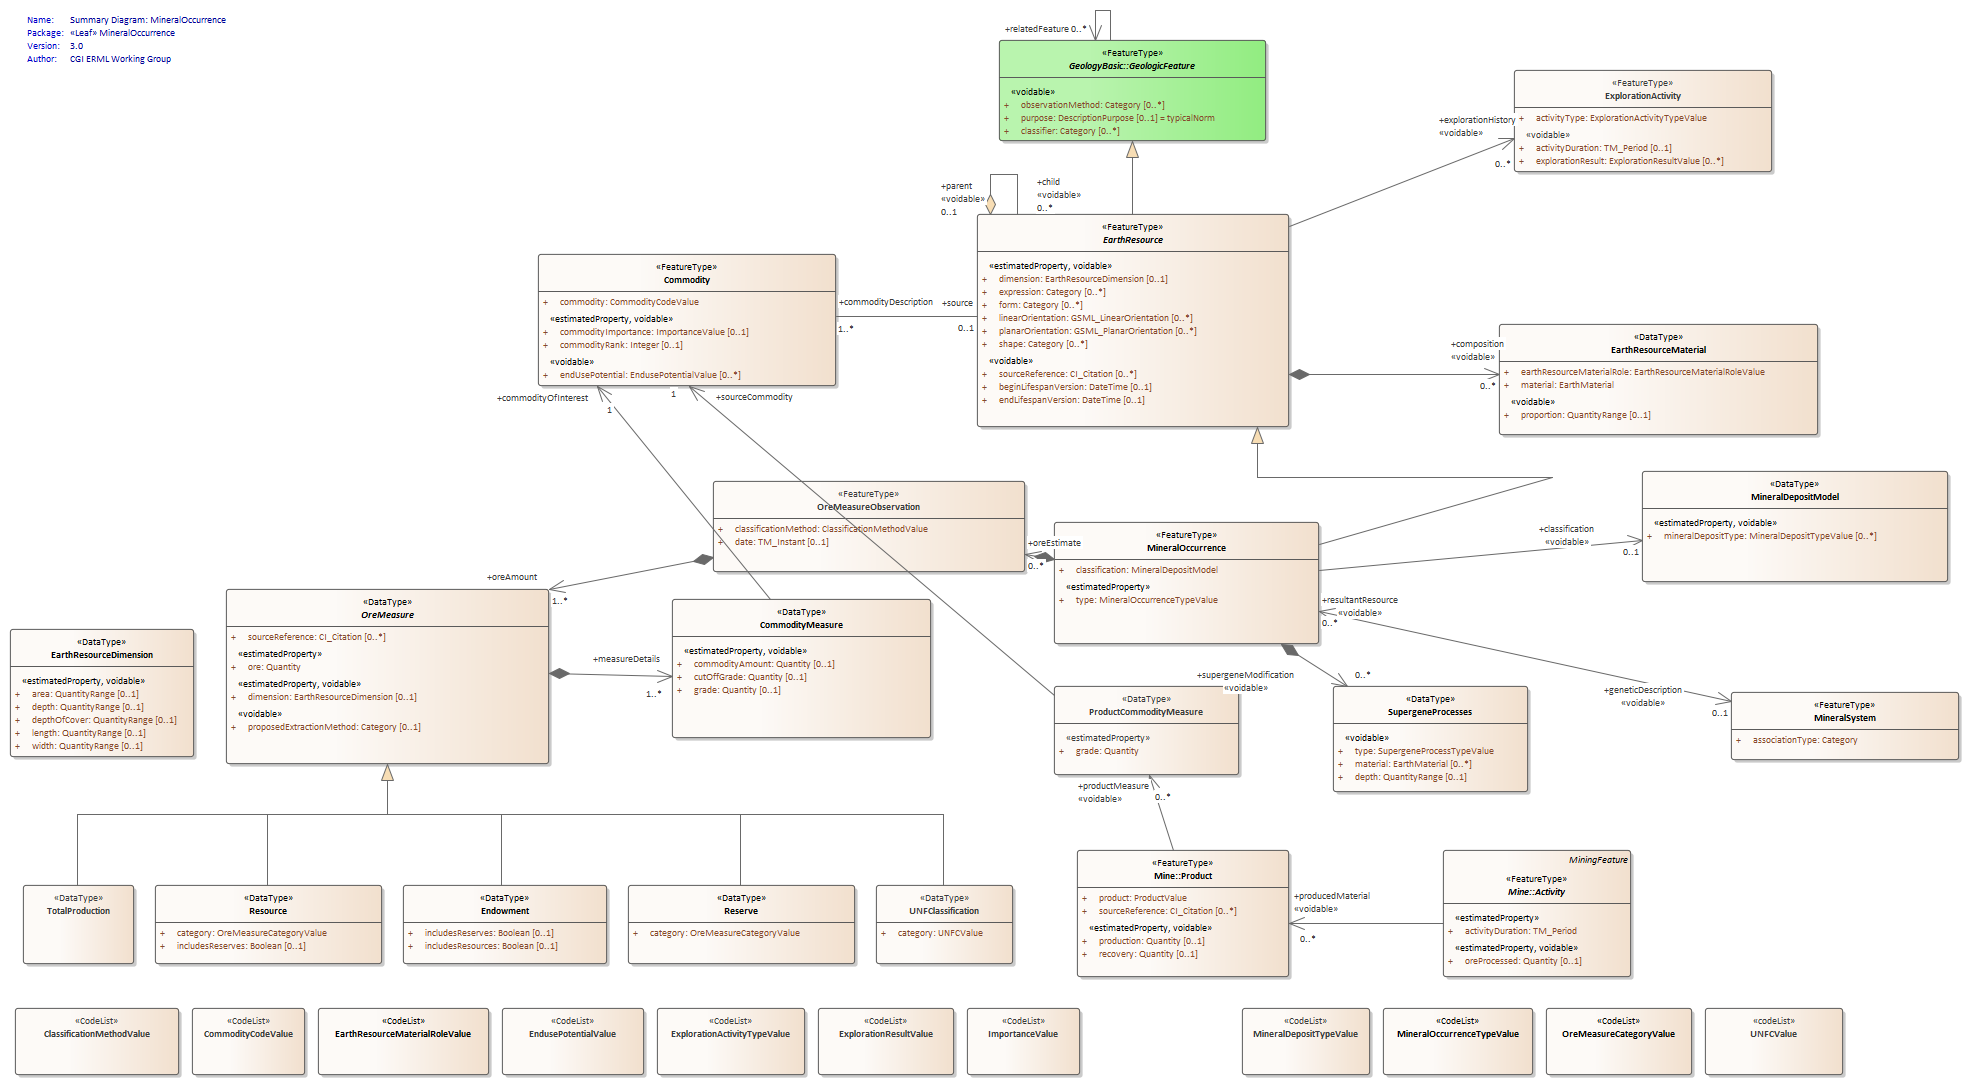
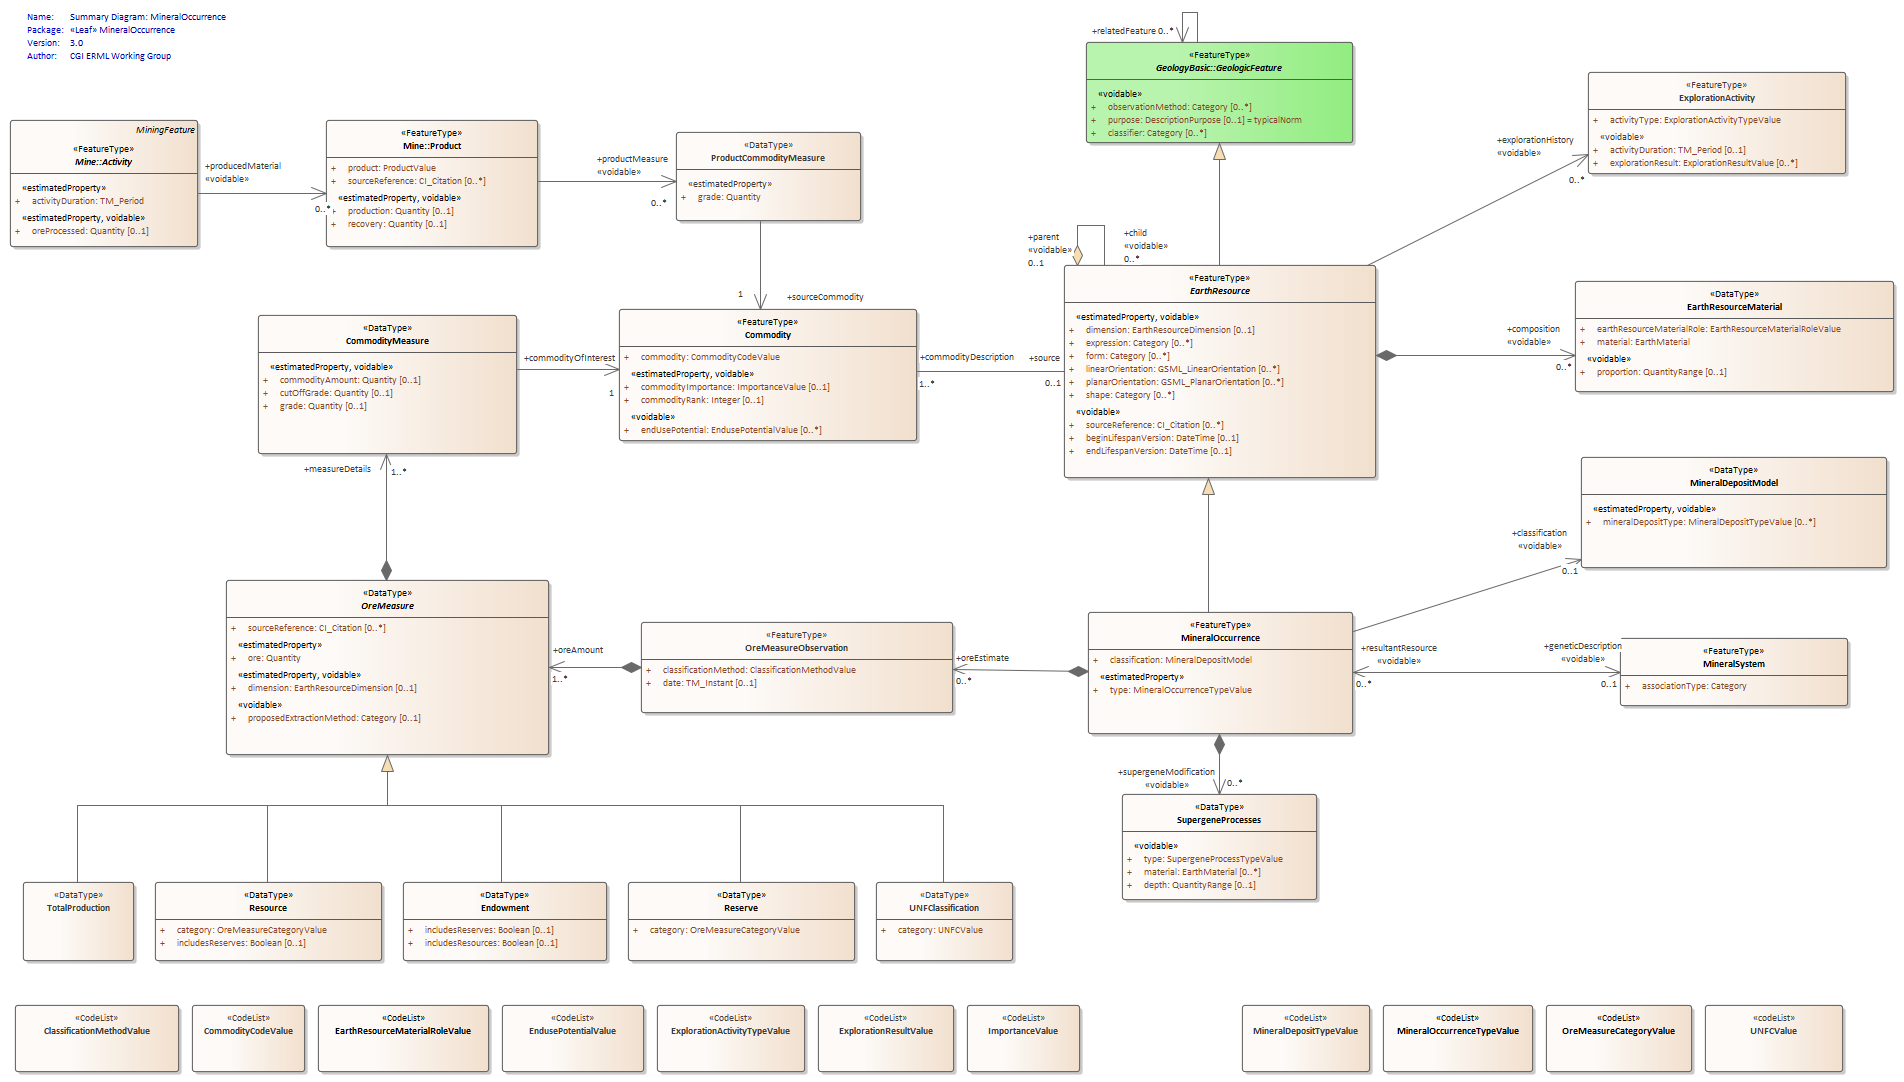
Fix up diagram

diff --git a/EARoot/EA2/EA86.htm b/EARoot/EA2/EA86.htm
@@ -36,37 +36,36 @@ function nameClassifier(name, separator)
 <img src="EA87.png" usemap="#EA87" border="0" />
 
 <MAP NAME="EA87">
-<area shape="rect" coords="713,481,1025,572" href="EA96.htm" target="_self">
-<area shape="rect" coords="23,885,134,964" href="EA107.htm" target="_self">
-<area shape="rect" coords="1054,686,1239,775" href="EA103.htm" target="_self">
-<area shape="rect" coords="1333,686,1528,792" href="EA106.htm" target="_self">
-<area shape="rect" coords="1499,324,1818,435" href="EA99.htm" target="_self">
-<area shape="rect" coords="1443,850,1631,977" href="../EA1/EA29.htm" target="_self">
-<area shape="rect" coords="1077,850,1289,977" href="../EA1/EA37.htm" target="_self">
-<area shape="rect" coords="538,254,836,386" href="EA91.htm" target="_self">
-<area shape="rect" coords="1054,522,1319,644" href="EA94.htm" target="_self">
-<area shape="rect" coords="1383,1008,1533,1075" href="EA117.htm" target="_self">
-<area shape="rect" coords="967,1008,1080,1075" href="EA115.htm" target="_self">
-<area shape="rect" coords="318,1008,489,1075" href="EA111.htm" target="_self">
-<area shape="rect" coords="628,885,855,964" href="EA104.htm" target="_self">
-<area shape="rect" coords="403,885,607,964" href="EA100.htm" target="_self">
-<area shape="rect" coords="155,885,382,964" href="EA105.htm" target="_self">
-<area shape="rect" coords="672,599,931,738" href="EA97.htm" target="_self">
-<area shape="rect" coords="226,589,549,764" href="EA102.htm" target="_self">
-<area shape="rect" coords="10,629,194,757" href="EA98.htm" target="_self">
-<area shape="rect" coords="1642,471,1948,582" href="EA101.htm" target="_self">
-<area shape="rect" coords="1731,692,1959,760" href="EA95.htm" target="_self">
-<area shape="rect" coords="977,214,1289,427" href="EA92.htm" target="_self">
-<area shape="rect" coords="876,885,1013,964" href="EA108.htm" target="_self">
-<area shape="rect" coords="1705,1008,1843,1075" href="EA120.htm" target="_self">
-<area shape="rect" coords="1546,1008,1692,1075" href="EA118.htm" target="_self">
-<area shape="rect" coords="1242,1008,1370,1075" href="EA116.htm" target="_self">
-<area shape="rect" coords="502,1008,644,1075" href="EA114.htm" target="_self">
-<area shape="rect" coords="15,1008,179,1075" href="EA109.htm" target="_self">
-<area shape="rect" coords="818,1008,954,1075" href="EA113.htm" target="_self">
-<area shape="rect" coords="657,1008,805,1075" href="EA112.htm" target="_self">
-<area shape="rect" coords="1514,70,1772,172" href="EA93.htm" target="_self">
-<area shape="rect" coords="192,1008,305,1075" href="EA110.htm" target="_self">
+<area shape="rect" coords="641,622,953,713" href="EA96.htm" target="_self">
+<area shape="rect" coords="23,882,134,961" href="EA107.htm" target="_self">
+<area shape="rect" coords="676,132,861,221" href="EA103.htm" target="_self">
+<area shape="rect" coords="1122,794,1317,900" href="EA106.htm" target="_self">
+<area shape="rect" coords="1575,281,1894,392" href="EA99.htm" target="_self">
+<area shape="rect" coords="10,120,198,247" href="../EA1/EA29.htm" target="_self">
+<area shape="rect" coords="326,120,538,247" href="../EA1/EA37.htm" target="_self">
+<area shape="rect" coords="619,309,917,441" href="EA91.htm" target="_self">
+<area shape="rect" coords="1088,612,1353,734" href="EA94.htm" target="_self">
+<area shape="rect" coords="1383,1005,1533,1072" href="EA117.htm" target="_self">
+<area shape="rect" coords="967,1005,1080,1072" href="EA115.htm" target="_self">
+<area shape="rect" coords="318,1005,489,1072" href="EA111.htm" target="_self">
+<area shape="rect" coords="628,882,855,961" href="EA104.htm" target="_self">
+<area shape="rect" coords="403,882,607,961" href="EA100.htm" target="_self">
+<area shape="rect" coords="155,882,382,961" href="EA105.htm" target="_self">
+<area shape="rect" coords="258,315,517,454" href="EA97.htm" target="_self">
+<area shape="rect" coords="226,580,549,755" href="EA102.htm" target="_self">
+<area shape="rect" coords="1581,457,1887,568" href="EA101.htm" target="_self">
+<area shape="rect" coords="1620,638,1848,706" href="EA95.htm" target="_self">
+<area shape="rect" coords="1064,265,1376,478" href="EA92.htm" target="_self">
+<area shape="rect" coords="876,882,1013,961" href="EA108.htm" target="_self">
+<area shape="rect" coords="1705,1005,1843,1072" href="EA120.htm" target="_self">
+<area shape="rect" coords="1546,1005,1692,1072" href="EA118.htm" target="_self">
+<area shape="rect" coords="1242,1005,1370,1072" href="EA116.htm" target="_self">
+<area shape="rect" coords="502,1005,644,1072" href="EA114.htm" target="_self">
+<area shape="rect" coords="15,1005,179,1072" href="EA109.htm" target="_self">
+<area shape="rect" coords="818,1005,954,1072" href="EA113.htm" target="_self">
+<area shape="rect" coords="657,1005,805,1072" href="EA112.htm" target="_self">
+<area shape="rect" coords="1588,72,1846,174" href="EA93.htm" target="_self">
+<area shape="rect" coords="192,1005,305,1072" href="EA110.htm" target="_self">
 </MAP>
 
 	<div class="ObjectTitle">Summary Diagram: MineralOccurrence : Class diagram</div>
@@ -77,7 +76,7 @@ function nameClassifier(name, separator)
 		</tr>
 		<tr>
 			<td width="15%" class="ObjectDetailsTopic">Modified:</td>
-			<td width="85%" class="ObjectDetailsValue">8/11/2022 10:59:42 PM</td>
+			<td width="85%" class="ObjectDetailsValue">20/11/2024 3:56:18 PM</td>
 		</tr>
 		<tr style="padding-top: 10px;">
 			<td width="15%" class="ObjectDetailsTopic"><img src="../../images/plus03.gif" align="absmiddle" id="proj" onclick="parent.toggleData(this.id)" />Project:</td>

diff --git a/EARoot/EA2/EA94.htm b/EARoot/EA2/EA94.htm
@@ -91,7 +91,7 @@ function nameClassifier(name, separator)
 		</tr>
 		<tr id="adv01" style="display: none;">
 			<td class="ObjectDetailsTopic" style="padding-left: 18px;">Appears In:</td>
-			<td class="ObjectDetailsValue"><a href="../EA1/EA12.htm">Context Diagram: Mining Activity</a>, <a href="EA86.htm">Summary Diagram: MineralOccurrence</a>, <a href="EA60.htm">Context Diagram: EarthResource</a>, <a href="EA68.htm">Context Diagram: MineralDepositModel</a>, <a href="EA70.htm">Context Diagram: MineralOccurrence</a>, <a href="EA72.htm">Context Diagram: MineralSystem</a>, <a href="EA74.htm">Context Diagram: OreMeasure</a>, <a href="EA80.htm">Context Diagram: SupergeneProcesses</a>, <a href="EA88.htm">Summary Diagram: Mineral Occurrence to Mine</a></td>
+			<td class="ObjectDetailsValue"><a href="../EA1/EA12.htm">Context Diagram: Mining Activity</a>, <a href="EA86.htm">Summary Diagram: MineralOccurrence</a>, <a href="EA60.htm">Context Diagram: EarthResource</a>, <a href="EA68.htm">Context Diagram: MineralDepositModel</a>, <a href="EA70.htm">Context Diagram: MineralOccurrence</a>, <a href="EA72.htm">Context Diagram: MineralSystem</a>, <a href="EA74.htm">Context Diagram: OreMeasureObservation</a>, <a href="EA80.htm">Context Diagram: SupergeneProcesses</a>, <a href="EA88.htm">Summary Diagram: Mineral Occurrence to Mine</a></td>
 		</tr>
 	</table>
 	<div class="ObjectDetailsNotes">&lt;font color=&quot;#400040&quot;&gt;-- Definition --&lt;/font&gt;&lt;br/&gt;&lt;font color=&quot;#400040&quot;&gt;A mineral accumulation in the lithosphere. &lt;/font&gt;&lt;br/&gt;</div>

diff --git a/EARoot/EA2/EA104.htm b/EARoot/EA2/EA104.htm
@@ -91,7 +91,7 @@ function nameClassifier(name, separator)
 		</tr>
 		<tr id="adv01" style="display: none;">
 			<td class="ObjectDetailsTopic" style="padding-left: 18px;">Appears In:</td>
-			<td class="ObjectDetailsValue"><a href="EA86.htm">Summary Diagram: MineralOccurrence</a>, <a href="EA74.htm">Context Diagram: OreMeasure</a>, <a href="EA76.htm">Context Diagram: Reserve</a></td>
+			<td class="ObjectDetailsValue"><a href="EA86.htm">Summary Diagram: MineralOccurrence</a>, <a href="EA74.htm">Context Diagram: OreMeasureObservation</a>, <a href="EA76.htm">Context Diagram: Reserve</a></td>
 		</tr>
 	</table>
 	<div class="ObjectDetailsNotes">-- Definition --&lt;br/&gt;The economically mineable part of a Measured and/or Indicated Mineral Resource. &lt;br/&gt;&lt;br/&gt;-- Description --&lt;br/&gt;It includes diluting materials and allowances for losses, which may occur when the material is mined. &quot;Marketable Coal Reserves&quot; maybe reported in conjunction with, but not instead of, reports of Ore (Coal) Reserves. &quot;Saleable product&quot; (e.g. for industrial minerals) can be reported in conjunction with ore reserve.&lt;br/&gt;Synonyms: Ore Reserve; Coal Reserve (s); Diamond (or gemstone) Ore Reserve; Mineral Reserves (not preferred, should be stated that used to mean the same as JORC&#8217;s Ore Reserve); Mineable production estimates&lt;br/&gt;</div>

diff --git a/EARoot/EA2/EA102.htm b/EARoot/EA2/EA102.htm
@@ -91,7 +91,7 @@ function nameClassifier(name, separator)
 		</tr>
 		<tr id="adv01" style="display: none;">
 			<td class="ObjectDetailsTopic" style="padding-left: 18px;">Appears In:</td>
-			<td class="ObjectDetailsValue"><a href="EA86.htm">Summary Diagram: MineralOccurrence</a>, <a href="EA58.htm">Context Diagram: CommodityMeasure</a>, <a href="EA64.htm">Context Diagram: Endowment</a>, <a href="EA74.htm">Context Diagram: OreMeasure</a>, <a href="EA76.htm">Context Diagram: Reserve</a>, <a href="EA78.htm">Context Diagram: Resource</a>, <a href="EA84.htm">Context Diagram: UNFCClassification</a>, <a href="EA82.htm">Context Diagram: TotalProduction</a></td>
+			<td class="ObjectDetailsValue"><a href="EA86.htm">Summary Diagram: MineralOccurrence</a>, <a href="EA58.htm">Context Diagram: CommodityMeasure</a>, <a href="EA64.htm">Context Diagram: Endowment</a>, <a href="EA74.htm">Context Diagram: OreMeasureObservation</a>, <a href="EA76.htm">Context Diagram: Reserve</a>, <a href="EA78.htm">Context Diagram: Resource</a>, <a href="EA84.htm">Context Diagram: UNFCClassification</a>, <a href="EA82.htm">Context Diagram: TotalProduction</a></td>
 		</tr>
 	</table>
 	<div class="ObjectDetailsNotes">-- Definition --&lt;br/&gt;The estimate of the Reserve, Resource or Endowment ore amount.&lt;br/&gt;</div>

diff --git a/EARoot/EA2/EA74.htm b/EARoot/EA2/EA74.htm
@@ -2,7 +2,7 @@
 <html xmlns="http://www.w3.org/1999/xhtml">
 <head>
 <meta http-equiv="Content-Type" content="text/html; charset=UTF-8" />
-<title>Context Diagram: OreMeasure</title>
+<title>Context Diagram: OreMeasureObservation</title>
 <link href="../../css/ea.css" rel="stylesheet" type="text/css" />
 <script>
 function initPage(src) {	
@@ -49,7 +49,7 @@ function nameClassifier(name, separator)
 <area shape="rect" coords="432,481,755,656" href="EA102.htm" target="_self">
 </MAP>
 
-	<div class="ObjectTitle">Context Diagram: OreMeasure : Class diagram</div>
+	<div class="ObjectTitle">Context Diagram: OreMeasureObservation : Class diagram</div>
 	<table border="0" cellpadding="0" cellspacing="0" class="ObjectDetails">
 		<tr>
 			<td width="15%" class="ObjectDetailsTopic">Created:</td>
@@ -57,7 +57,7 @@ function nameClassifier(name, separator)
 		</tr>
 		<tr>
 			<td width="15%" class="ObjectDetailsTopic">Modified:</td>
-			<td width="85%" class="ObjectDetailsValue">8/11/2022 10:56:42 PM</td>
+			<td width="85%" class="ObjectDetailsValue">20/11/2024 3:51:12 PM</td>
 		</tr>
 		<tr style="padding-top: 10px;">
 			<td width="15%" class="ObjectDetailsTopic"><img src="../../images/plus03.gif" align="absmiddle" id="proj" onclick="parent.toggleData(this.id)" />Project:</td>

diff --git a/EARoot/EA2/EA100.htm b/EARoot/EA2/EA100.htm
@@ -91,7 +91,7 @@ function nameClassifier(name, separator)
 		</tr>
 		<tr id="adv01" style="display: none;">
 			<td class="ObjectDetailsTopic" style="padding-left: 18px;">Appears In:</td>
-			<td class="ObjectDetailsValue"><a href="EA86.htm">Summary Diagram: MineralOccurrence</a>, <a href="EA64.htm">Context Diagram: Endowment</a>, <a href="EA74.htm">Context Diagram: OreMeasure</a></td>
+			<td class="ObjectDetailsValue"><a href="EA86.htm">Summary Diagram: MineralOccurrence</a>, <a href="EA64.htm">Context Diagram: Endowment</a>, <a href="EA74.htm">Context Diagram: OreMeasureObservation</a></td>
 		</tr>
 	</table>
 	<div class="ObjectDetailsNotes">-- Definition --&lt;br/&gt;The quantity of a mineral (or a group of minerals for industrial rocks) in accumulations (deposits) meeting specified physical characteristics such as quality, size and depth.&lt;br/&gt;&lt;br/&gt;-- Description --&lt;br/&gt;Usually includes Resources, as unlike the latter, it does not have to have prospects for &quot;eventual economic extraction&quot;. It often includes the total amount of a commodity originally introduced to a particular location during the deposit forming processes - and thus can include resources, reserves, past production and mining and metallurgical losses.&lt;br/&gt;</div>

diff --git a/EARoot/EA2/EA96.htm b/EARoot/EA2/EA96.htm
@@ -91,7 +91,7 @@ function nameClassifier(name, separator)
 		</tr>
 		<tr id="adv01" style="display: none;">
 			<td class="ObjectDetailsTopic" style="padding-left: 18px;">Appears In:</td>
-			<td class="ObjectDetailsValue"><a href="EA86.htm">Summary Diagram: MineralOccurrence</a>, <a href="EA64.htm">Context Diagram: Endowment</a>, <a href="EA70.htm">Context Diagram: MineralOccurrence</a>, <a href="EA74.htm">Context Diagram: OreMeasure</a>, <a href="EA76.htm">Context Diagram: Reserve</a>, <a href="EA78.htm">Context Diagram: Resource</a>, <a href="EA84.htm">Context Diagram: UNFCClassification</a>, <a href="EA82.htm">Context Diagram: TotalProduction</a></td>
+			<td class="ObjectDetailsValue"><a href="EA86.htm">Summary Diagram: MineralOccurrence</a>, <a href="EA64.htm">Context Diagram: Endowment</a>, <a href="EA70.htm">Context Diagram: MineralOccurrence</a>, <a href="EA74.htm">Context Diagram: OreMeasureObservation</a>, <a href="EA76.htm">Context Diagram: Reserve</a>, <a href="EA78.htm">Context Diagram: Resource</a>, <a href="EA84.htm">Context Diagram: UNFCClassification</a>, <a href="EA82.htm">Context Diagram: TotalProduction</a></td>
 		</tr>
 	</table>
 	

diff --git a/EARoot/EA2/EA107.htm b/EARoot/EA2/EA107.htm
@@ -91,7 +91,7 @@ function nameClassifier(name, separator)
 		</tr>
 		<tr id="adv01" style="display: none;">
 			<td class="ObjectDetailsTopic" style="padding-left: 18px;">Appears In:</td>
-			<td class="ObjectDetailsValue"><a href="EA86.htm">Summary Diagram: MineralOccurrence</a>, <a href="EA74.htm">Context Diagram: OreMeasure</a>, <a href="EA82.htm">Context Diagram: TotalProduction</a></td>
+			<td class="ObjectDetailsValue"><a href="EA86.htm">Summary Diagram: MineralOccurrence</a>, <a href="EA74.htm">Context Diagram: OreMeasureObservation</a>, <a href="EA82.htm">Context Diagram: TotalProduction</a></td>
 		</tr>
 	</table>
 	<div class="ObjectDetailsNotes">-- Definition --&lt;br/&gt;The total production is the cumulated past production of the mine since its opening.&lt;br/&gt;&lt;br/&gt;-- Description --&lt;br/&gt;The total production represents the cumulated amount of ore extracted from the mine during the different episodes of production. For each exploited commodity, the grade is given as an averaged value for the whole period of production.&lt;br/&gt;</div>

diff --git a/EARoot/EA2/EA105.htm b/EARoot/EA2/EA105.htm
@@ -91,7 +91,7 @@ function nameClassifier(name, separator)
 		</tr>
 		<tr id="adv01" style="display: none;">
 			<td class="ObjectDetailsTopic" style="padding-left: 18px;">Appears In:</td>
-			<td class="ObjectDetailsValue"><a href="EA86.htm">Summary Diagram: MineralOccurrence</a>, <a href="EA74.htm">Context Diagram: OreMeasure</a>, <a href="EA78.htm">Context Diagram: Resource</a></td>
+			<td class="ObjectDetailsValue"><a href="EA86.htm">Summary Diagram: MineralOccurrence</a>, <a href="EA74.htm">Context Diagram: OreMeasureObservation</a>, <a href="EA78.htm">Context Diagram: Resource</a></td>
 		</tr>
 	</table>
 	<div class="ObjectDetailsNotes">-- Definition --&lt;br/&gt;An accumulation of material of intrinsic economic interest in or on the Earth&#8217;s crust in such form, quality and quantity that there are reasonable prospects for economic extraction.&lt;br/&gt;&lt;br/&gt;-- Description --&lt;br/&gt;Synonyms: Mineral Resource; Coal Resource (s); Diamond (Gemstone) Resource; Potentially Mineable Mineralisation.&lt;br/&gt;</div>

diff --git a/EARoot/EA2/EA97.htm b/EARoot/EA2/EA97.htm
@@ -91,7 +91,7 @@ function nameClassifier(name, separator)
 		</tr>
 		<tr id="adv01" style="display: none;">
 			<td class="ObjectDetailsTopic" style="padding-left: 18px;">Appears In:</td>
-			<td class="ObjectDetailsValue"><a href="../EA1/EA18.htm">Context Diagram: MiningWaste</a>, <a href="EA86.htm">Summary Diagram: MineralOccurrence</a>, <a href="EA58.htm">Context Diagram: CommodityMeasure</a>, <a href="EA74.htm">Context Diagram: OreMeasure</a></td>
+			<td class="ObjectDetailsValue"><a href="../EA1/EA18.htm">Context Diagram: MiningWaste</a>, <a href="EA86.htm">Summary Diagram: MineralOccurrence</a>, <a href="EA58.htm">Context Diagram: CommodityMeasure</a>, <a href="EA74.htm">Context Diagram: OreMeasureObservation</a></td>
 		</tr>
 	</table>
 	<div class="ObjectDetailsNotes">-- Definition --&lt;br/&gt;A measure of the amount of the commodity based on a Reserve, Resource or Endowment calculation.&lt;br/&gt;</div>

diff --git a/EARoot/EA2/EA108.htm b/EARoot/EA2/EA108.htm
@@ -91,7 +91,7 @@ function nameClassifier(name, separator)
 		</tr>
 		<tr id="adv01" style="display: none;">
 			<td class="ObjectDetailsTopic" style="padding-left: 18px;">Appears In:</td>
-			<td class="ObjectDetailsValue"><a href="EA86.htm">Summary Diagram: MineralOccurrence</a>, <a href="EA74.htm">Context Diagram: OreMeasure</a>, <a href="EA84.htm">Context Diagram: UNFCClassification</a></td>
+			<td class="ObjectDetailsValue"><a href="EA86.htm">Summary Diagram: MineralOccurrence</a>, <a href="EA74.htm">Context Diagram: OreMeasureObservation</a>, <a href="EA84.htm">Context Diagram: UNFCClassification</a></td>
 		</tr>
 	</table>
 	<div class="ObjectDetailsNotes">-- Definition --&lt;br/&gt;The categorisation of mineral reserves and resources according to the UN Framework Classification (2009).&lt;br/&gt;</div>

diff --git a/EARoot/EA2/EA109.htm b/EARoot/EA2/EA109.htm
@@ -91,7 +91,7 @@ function nameClassifier(name, separator)
 		</tr>
 		<tr id="adv01" style="display: none;">
 			<td class="ObjectDetailsTopic" style="padding-left: 18px;">Appears In:</td>
-			<td class="ObjectDetailsValue"><a href="EA86.htm">Summary Diagram: MineralOccurrence</a>, <a href="EA74.htm">Context Diagram: OreMeasure</a></td>
+			<td class="ObjectDetailsValue"><a href="EA86.htm">Summary Diagram: MineralOccurrence</a>, <a href="EA74.htm">Context Diagram: OreMeasureObservation</a></td>
 		</tr>
 	</table>
 	<div class="ObjectDetailsNotes">-- Definition --&lt;br/&gt;Code indicating the means used to calculate the ore measurement. &lt;br/&gt;&lt;br/&gt;-- Description --&lt;br/&gt;EXAMPLE: JORC, PERC, Unspecified, UNESCO/World Bank and the Canadian CIM.&lt;br/&gt;</div>
